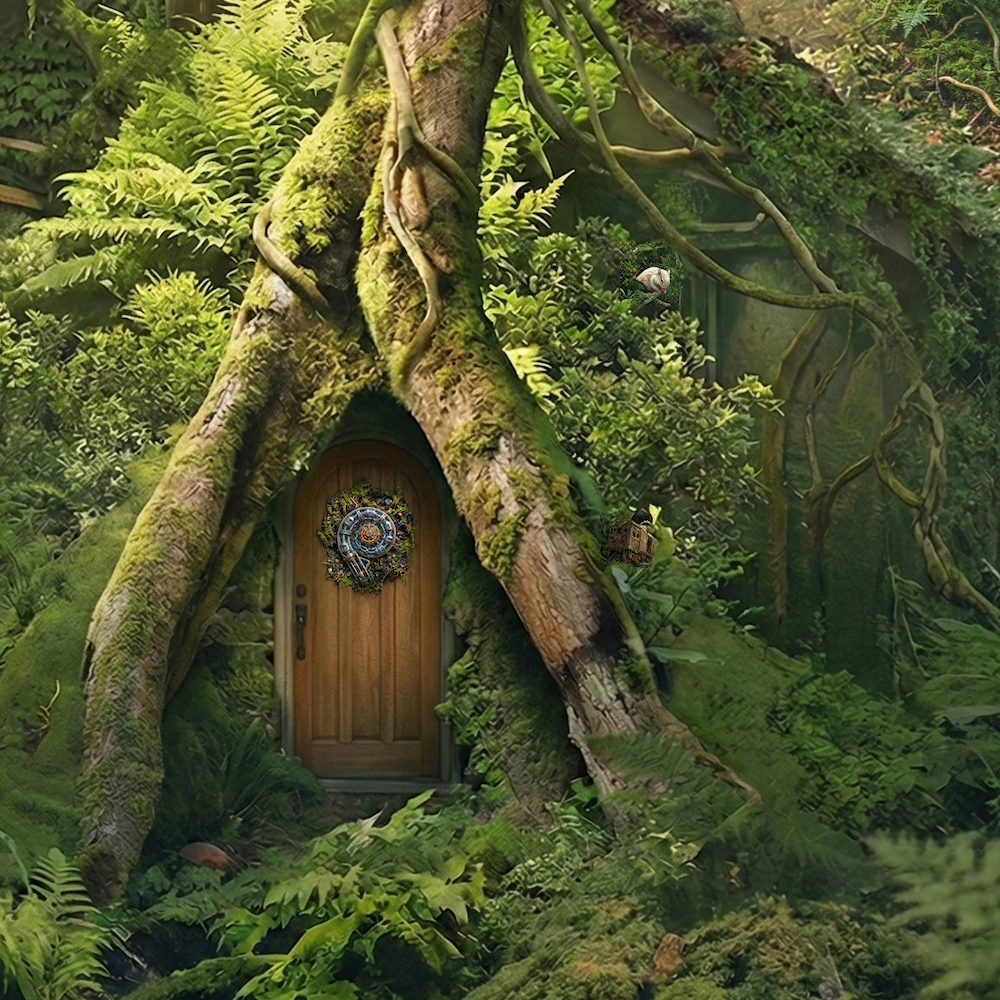
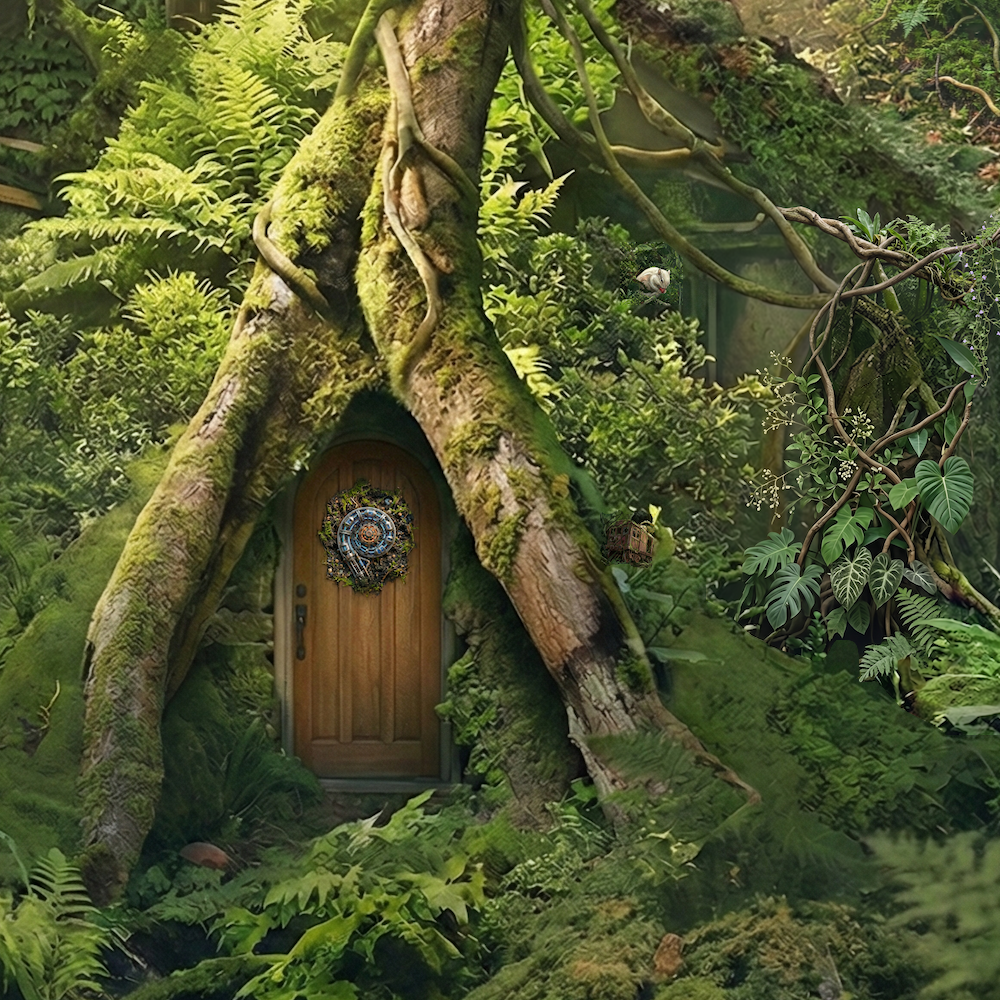
1

Changed region(s): [[0.713, 0.186, 1.0, 0.744], [0.775, 0.186, 0.806, 0.217]]

diff --git a/scenes.js b/scenes.js
@@ -59,7 +59,8 @@ window.gameData = {
         hotspots: [
            { top: '51%', left: '59.8%', width: '6.2%', height: '6.2%', target: 'train' },
            { top: '49.9%', left: '33%', width: '7.6%', height: '7.6%', target: 'electronic' },
-                   ]
+            { top: '30.3%', left: '84%', width: '10.1%', height: '10.1%', target: 'seaweed' },
+        ]
     },
     'twohouses': {
         type: 'cinematic',
@@ -209,6 +210,10 @@ window.gameData = {
         hotspots: []
     },
     'flower': {
+        type: 'cinematic',
+        hotspots: []
+    },
+    'seaweed': {
         type: 'cinematic',
         hotspots: []
     },
